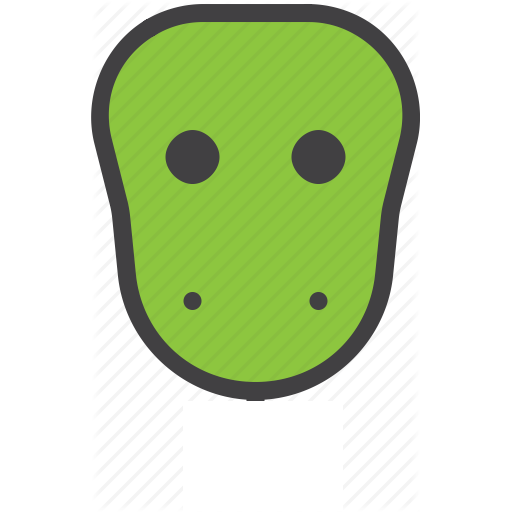
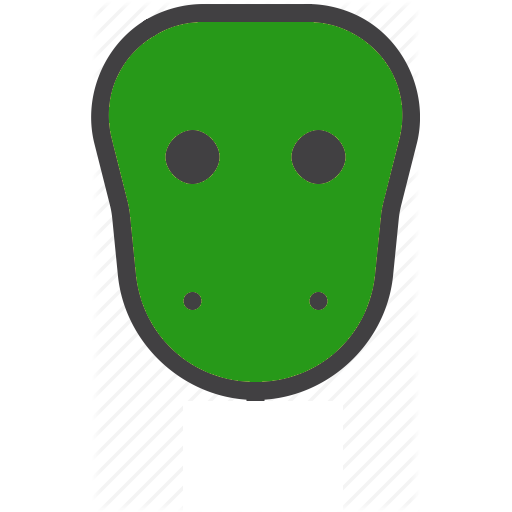
Boom!

diff --git a/src/components/Grid.js b/src/components/Grid.js
@@ -27,7 +27,8 @@ const mapStateToProps = state => {
     died: state.died,
     steps: state.steps,
     snake: state.snake,
-    foodCoords: state.foodCoords
+    foodCoords: state.foodCoords,
+    mobile: state.mobile
   };
 };
 
@@ -51,7 +52,6 @@ class Grid extends React.Component {
       grid: this.props.grid,
       died: this.props.died,
       direction: this.props.direction,
-      nextStep: true,
       foodCoords: this.props.foodCoords
     }
     this.handleKeyDown = this.handleKeyDown.bind(this);
@@ -81,12 +81,14 @@ class Grid extends React.Component {
     if (this.state.died) return false;
     if (!direction) return false;
     if (!validateKeyPress(this.state.direction, direction)) return false;
-    if (this.state.direction !== direction && this.state.nextStep) {
-      this.setState({
-        direction: direction,
-        nextStep: false
-      });
+
+    if (this.state.direction !== direction) {
+      clearInterval(this.interval);
+      this.interval = null;
+      this.setState({direction: direction});
       this.props.updateDirection(direction);
+      let grid = gridEvents.move(this.props.grid, this.state.direction, this.props.steps, this.props.snake);
+      this.props.updateGrid(grid);
     }
   }
 
@@ -101,7 +103,7 @@ class Grid extends React.Component {
 
   componentDidUpdate(prevProps, prevState) {
     prevProps.gridReady !== true && this.props.grid && this.props.updateGridReady(true);
-    //prevProps.direction !== this.props.direction && this.changeDirection(this.props.direction);
+    (this.props.mobile && prevProps.direction !== this.props.direction) && this.changeDirection(this.props.direction);
     if (prevProps.speed !== this.props.speed) {
       clearInterval(this.interval);
       this.interval = null;
@@ -109,14 +111,12 @@ class Grid extends React.Component {
 
     if (this.props.gridReady && this.interval !== null) return;
     this.interval = setInterval(() => {
-      this.setState({nextStep: false});
       let grid = gridEvents.move(this.props.grid, this.state.direction, this.props.steps, this.props.snake);
       this.props.updateGrid(grid);
       prevProps !== this.props && this.setState({
         grid: this.props.grid,
         died: this.props.died,
-        foodCoords: this.props.foodCoords,
-        nextStep: true
+        foodCoords: this.props.foodCoords
       });
       this.state.died && clearInterval(this.interval);
     }, this.props.speed);

diff --git a/src/reducers/reducers.js b/src/reducers/reducers.js
@@ -7,7 +7,8 @@ import {
   UPDATE_STEPS,
   EAT_FOOD,
   UPDATE_TAIL,
-  UPDATE_SCORE
+  UPDATE_SCORE,
+  UPDATE_MOBILE
 } from '../constants/constants';
 import {gridEvents} from '../utils/grid-events';
 
@@ -16,14 +17,15 @@ const initialState = {
   grid: null,
   direction: 'right',
   gridReady : false,
-  speed: 200,
+  speed: (200 / process.env.REACT_APP_GRID_WIDTH * 16),
   died: false,
   reset: false,
   steps: [],
   snake: 1,
   score: 0,
   level: 1,
-  foodCoords: gridEvents.insertFood()
+  foodCoords: gridEvents.insertFood(),
+  mobile: false
 };
 
 function rootReducer(state = initialState, action) {
@@ -46,11 +48,13 @@ function rootReducer(state = initialState, action) {
       return Object.assign({}, state, {foodCoords: eat});
     case UPDATE_TAIL:
       return Object.assign({}, state, {snake: (state.snake + 1)});
+    case UPDATE_MOBILE:
+      return Object.assign({}, state, {mobile: action.mobile});
     case UPDATE_SCORE:
       let stateUpdated = {score: state.score + 10};
-      if (((state.snake - 1) / 10) % 1 === 0 && state.speed >= 40) {
+      if (((state.snake - 1) / 10) % 1 === 0 && state.speed >= ((200 / process.env.REACT_APP_GRID_WIDTH * 16) / 10) * 2) {
         stateUpdated = Object.assign({}, stateUpdated, {
-          speed: state.speed - 20,
+          speed: state.speed - ((200 / process.env.REACT_APP_GRID_WIDTH * 16) / 10),
           level: state.level + 1
         });
       }

diff --git a/src/styles/_grid.scss b/src/styles/_grid.scss
@@ -7,10 +7,30 @@
 
   .row {
     display: flex;
-    box-shadow: inset 0px -1px #e4e4e4;
+    border-bottom: 1px solid #e4e4e4;
 
     &:last-of-type {
-      box-shadow: inset 0px 0px #e4e4e4;
+      border-bottom: none;
+    }
+
+    &:nth-child(odd) {
+      .column {
+        background-color: #A6CA4A;
+
+        &:nth-child(even) {
+          background-color: #AAC649;
+        }
+      }
+    }
+
+    &:nth-child(even) {
+      .column {
+        background-color: #AAC649;
+
+        &:nth-child(even) {
+          background-color: #A6CA4A;
+        }
+      }
     }
 
     .column {
@@ -20,6 +40,7 @@
       padding-top: calc(100% / var(--grid-width));
       box-shadow: inset -1px 0px #e4e4e4;
       z-index: 1;
+      overflow: hidden;
 
       &:last-of-type {
         box-shadow: inset 0px 0px #e4e4e4;
@@ -32,7 +53,7 @@
         width: calc(66% - 2px);
         height: calc(66% - 2px);
         z-index: 3;
-        background-color: #8BC33F;
+        background-color: #279919;
         border: 1px solid #494C43;
         border-radius: 50%;
       }

diff --git a/src/components/DirectionButtons.js b/src/components/DirectionButtons.js
@@ -1,11 +1,21 @@
 import React from 'react';
 import './../app.scss';
 import {connect} from 'react-redux';
-import {updateDirectionAction} from './../actions/actions';
+import {
+  updateDirectionAction,
+  updateMobileAction
+} from './../actions/actions';
+
+const mapStateToProps = state => {
+  return {
+    mobile: state.mobile
+  };
+};
 
 const mapDispatchToProps = dispatch => {
   return {
-    updateDirection: direction => dispatch(updateDirectionAction(direction))
+    updateDirection: direction => dispatch(updateDirectionAction(direction)),
+    updateMobile: mobile => dispatch(updateMobileAction(mobile))
   };
 };
 
@@ -21,6 +31,7 @@ class Buttons extends React.Component {
   }
 
   handleButtonClick(evt) {
+    !this.props.mobile && this.props.updateMobile(true);
     this.props.updateDirection(evt.target.getAttribute('id'));
   }
 
@@ -37,4 +48,4 @@ class Buttons extends React.Component {
 
 }
 
-export default connect(null, mapDispatchToProps)(Buttons);
+export default connect(mapStateToProps, mapDispatchToProps)(Buttons);

diff --git a/src/actions/actions.js b/src/actions/actions.js
@@ -7,7 +7,8 @@ import {
   UPDATE_STEPS,
   EAT_FOOD,
   UPDATE_TAIL,
-  UPDATE_SCORE
+  UPDATE_SCORE,
+  UPDATE_MOBILE
 } from '../constants/constants';
 
 export const updateGridAction = (grid) => {
@@ -46,4 +47,8 @@ export const updateTailAction = () => {
 
 export const updateScoreAction = () => {
   return {type: UPDATE_SCORE};
+}
+
+export const updateMobileAction = (mobile) => {
+  return {type: UPDATE_MOBILE, mobile: mobile};
 }

diff --git a/src/constants/constants.js b/src/constants/constants.js
@@ -9,3 +9,4 @@ export const UPDATE_STEPS = 'UPDATE_STEPS';
 export const EAT_FOOD = 'EAT_FOOD';
 export const UPDATE_TAIL = 'UPDATE_TAIL';
 export const UPDATE_SCORE = 'UPDATE_SCORE';
+export const UPDATE_MOBILE = 'UPDATE_MOBILE';

diff --git a/README.md b/README.md
@@ -4,6 +4,14 @@
 
 [See the demo here]().
 
+## Installation
+
+- `git clone https://github.com/lcolarieti/snake.git`
+- `cd snake`
+- `npm install`
+- `npm start`
+
+
 ## Available Scripts
 
 In the project directory, you can run:
